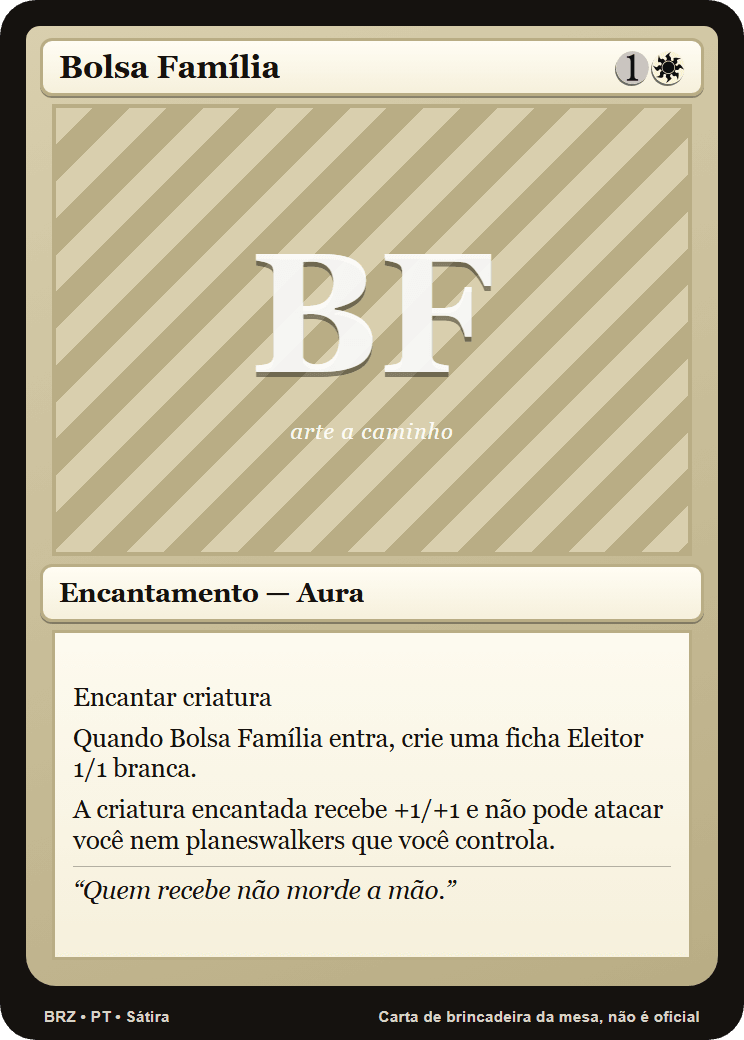
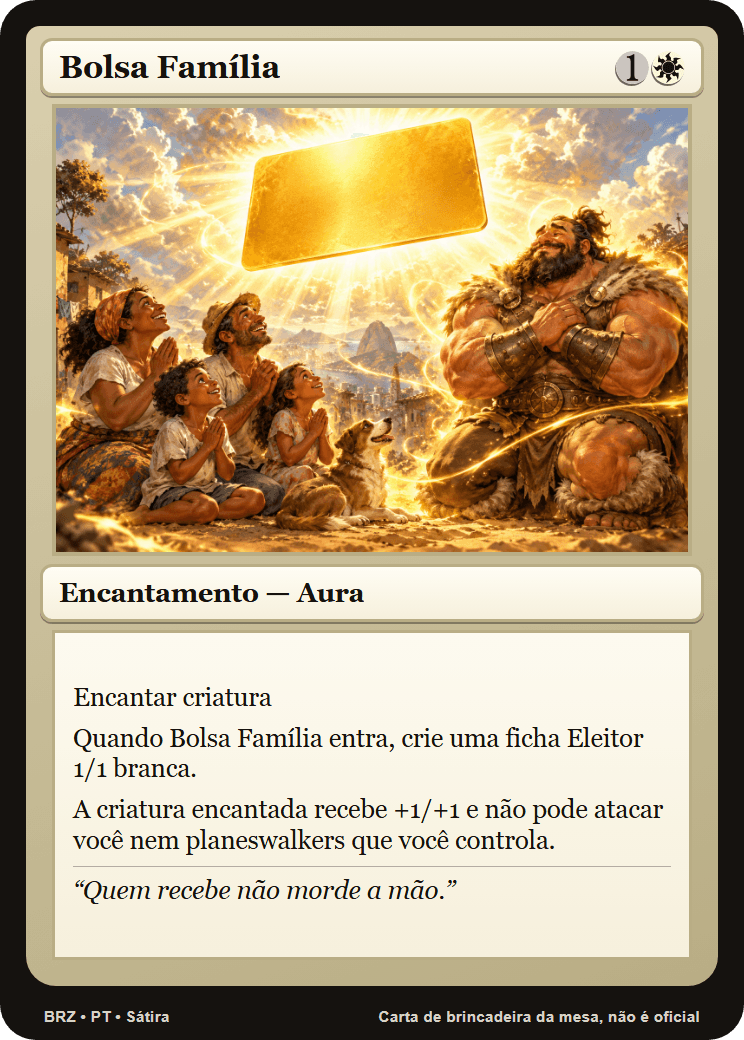
Decks da mesa: arte dos comandantes para o fundo, deck sem link do Moxfield na tela e nos testes, primeiras artes do Codex

diff --git a/jogo/ferramentas/cartas-proprias.ts b/jogo/ferramentas/cartas-proprias.ts
@@ -260,12 +260,40 @@ async function gravarImagens(so: string[]): Promise<void> {
   }
 }
 
+/**
+ * Arte dos comandantes dos decks da mesa para o fundo da área do jogador: gerado/artes/<id>.webp, como as artes
+ * oficiais baixadas por ferramentas/baixar-artes.ts, com a origem em fontes.json (recorte "propria").
+ */
+async function gravarArtesComandantes(): Promise<void> {
+  const pastaDecks = join(RAIZ_JOGO, 'decks');
+  const pastaArtes = join(RAIZ_JOGO, 'gerado', 'artes');
+  const arqFontes = join(pastaArtes, 'fontes.json');
+  const fontes = JSON.parse(readFileSync(arqFontes, 'utf8')) as Record<string, { baixadoEm?: string } | undefined>;
+  const { colecao, cartas } = lerProprias();
+  const proprias = new Set(cartas.map((c) => c.nome));
+  for (const f of readdirSync(pastaDecks).filter((x) => x.endsWith('.json'))) {
+    const d = JSON.parse(readFileSync(join(pastaDecks, f), 'utf8')) as { atual?: { comandante?: string } | null };
+    const nome = d.atual?.comandante;
+    if (!nome || !proprias.has(nome)) continue;
+    const origem = ['png', 'webp', 'jpg'].map((e) => join(PASTA_ARTES, `${slug(nome)}.${e}`)).find((a) => existsSync(a));
+    if (!origem) { console.log(`${nome}: sem arte ainda; o fundo da mesa fica para depois`); continue; }
+    const id = idDe('impressao', nome);
+    const info = await sharp(origem).resize({ width: 1536, withoutEnlargement: true }).webp({ quality: 92 }).toFile(join(pastaArtes, `${id}.webp`));
+    fontes[nome] = {
+      imagemLocal: id,
+      impressao: { id, colecao, numero: '0', moldura: 'carta da mesa', artista: 'gerada pelo Codex', url: '' },
+      recorte: 'propria', tamanho: [info.width, info.height], candidatas: [], baixadoEm: fontes[nome]?.baixadoEm ?? new Date().toISOString(),
+    } as { baixadoEm?: string };
+  }
+  writeFileSync(arqFontes, JSON.stringify(fontes, null, 1) + '\n');
+}
+
 // só quando chamado pela linha de comando (os testes importam as funções)
 if (process.argv[1] && import.meta.url === pathToFileURL(process.argv[1]).href) {
   const [comando, ...resto] = process.argv.slice(2);
   try {
     if (!comando || comando === 'dados') gravarDados();
-    if (!comando || comando === 'imagens') await gravarImagens(resto);
+    if (!comando || comando === 'imagens') { await gravarImagens(resto); await gravarArtesComandantes(); }
     if (comando && comando !== 'dados' && comando !== 'imagens') console.log('Uso: node ferramentas/cartas-proprias.ts [dados | imagens [nome...]]');
   } catch (e) {
     console.error(e instanceof Error ? e.message : e);

diff --git a/jogo/testes/fase9-artes.test.ts b/jogo/testes/fase9-artes.test.ts
@@ -156,7 +156,8 @@ describe('artes guardadas no repositório (gerado/artes)', () => {
       const f = fontes[d.comandante];
       expect(f, d.comandante).toBeDefined();
       expect(f.imagemLocal).toBe(id);
-      expect(f.impressao.url).toMatch(/^https:\/\/cards\.scryfall\.io\//);
+      // cartas próprias da mesa (decks do Lula e do Bolsonaro): a arte não vem do Scryfall
+      if (f.recorte !== 'propria') expect(f.impressao.url).toMatch(/^https:\/\/cards\.scryfall\.io\//);
       const arquivo = join(pasta, `${id}.webp`);
       expect(existsSync(arquivo), d.comandante).toBe(true);
       const m = await sharp(arquivo).metadata();

diff --git a/jogo/testes/catalogo/dados-reais.test.ts b/jogo/testes/catalogo/dados-reais.test.ts
@@ -22,7 +22,9 @@ describe('decks/ e gerado/ de verdade', () => {
     expect(new Set(decks.map((d) => d.ordem)).size).toBe(decks.length);
     for (const d of decks) {
       expect(d.atual ?? d.preparacao, d.id).toBeTruthy();
-      expect(d.link).toMatch(/^https:\/\/moxfield\.com\/decks\//);
+      // os decks da mesa (brasil-*) não vêm do Moxfield
+      if (d.id.startsWith('brasil-')) expect(d.link).toBe('');
+      else expect(d.link).toMatch(/^https:\/\/moxfield\.com\/decks\//);
     }
   });
 
